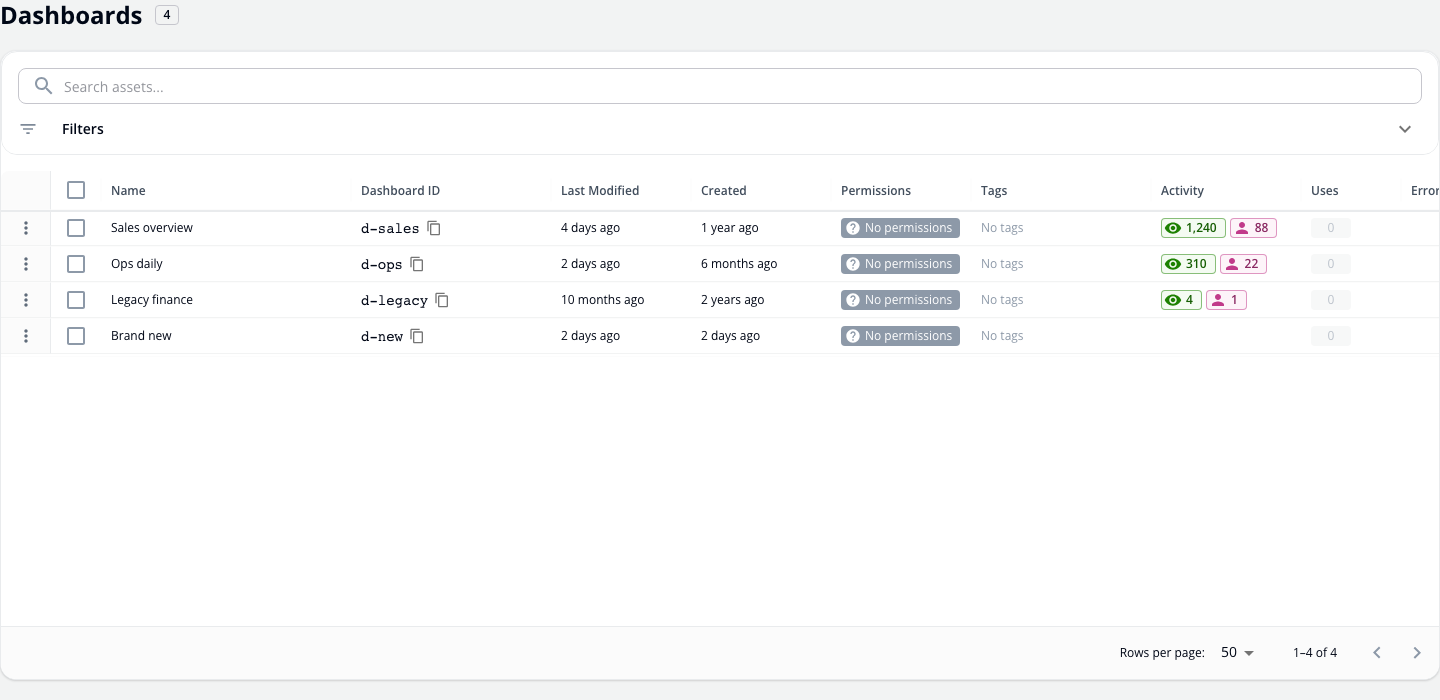
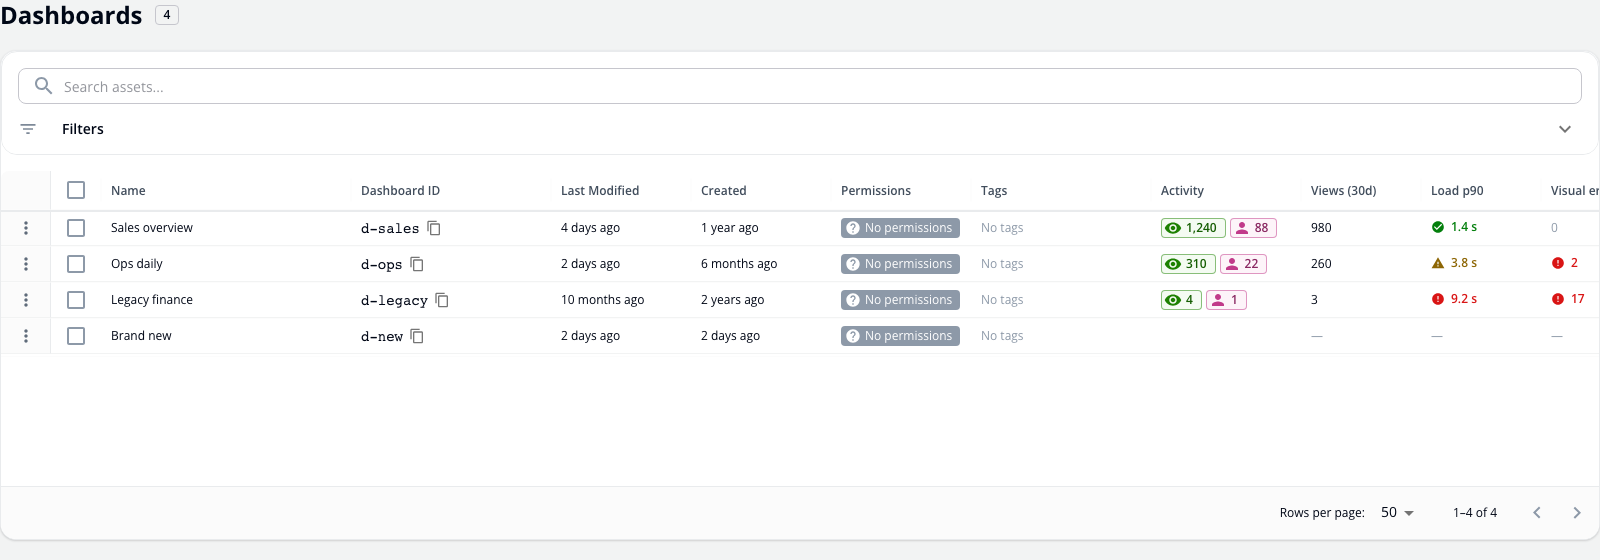
wip(author-v2): health columns sit next to Activity; wider screenshots

diff --git a/frontend/src/widgets/asset-table/lib/createAssetColumns.tsx b/frontend/src/widgets/asset-table/lib/createAssetColumns.tsx
@@ -229,7 +229,7 @@ export const createAssetColumns = (
   const relationshipColumns = getRelationshipColumns(assetType, handlers);
 
   // Merge columns with proper ordering
-  return mergeColumns(baseColumns, specificColumns, relationshipColumns, assetType);
+  return placeHealthAfterActivity(mergeColumns(baseColumns, specificColumns, relationshipColumns, assetType));
 };
 
 /**
@@ -365,4 +365,21 @@ function mergeColumns(
   }
 
   return baseColumns;
+}
+
+/**
+ * Health belongs next to Activity, not at the far right: both answer "is
+ * this thing used and does it work" at a glance.
+ */
+function placeHealthAfterActivity(columns: ColumnConfig[]): ColumnConfig[] {
+  const health = columns.filter((c) => c.id.startsWith('health'));
+  if (health.length === 0) {
+    return columns;
+  }
+  const rest = columns.filter((c) => !c.id.startsWith('health'));
+  const at = rest.findIndex((c) => c.id === 'activity');
+  if (at === -1) {
+    return columns;
+  }
+  return [...rest.slice(0, at + 1), ...health, ...rest.slice(at + 1)];
 }
